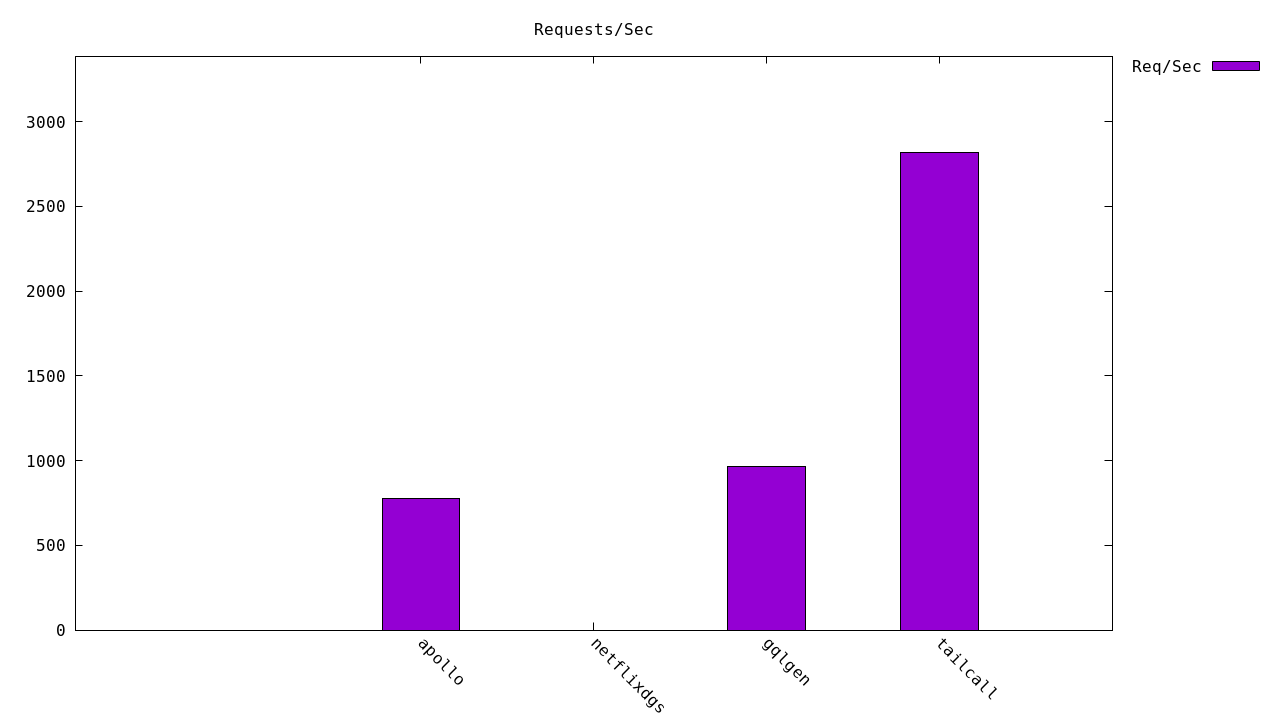
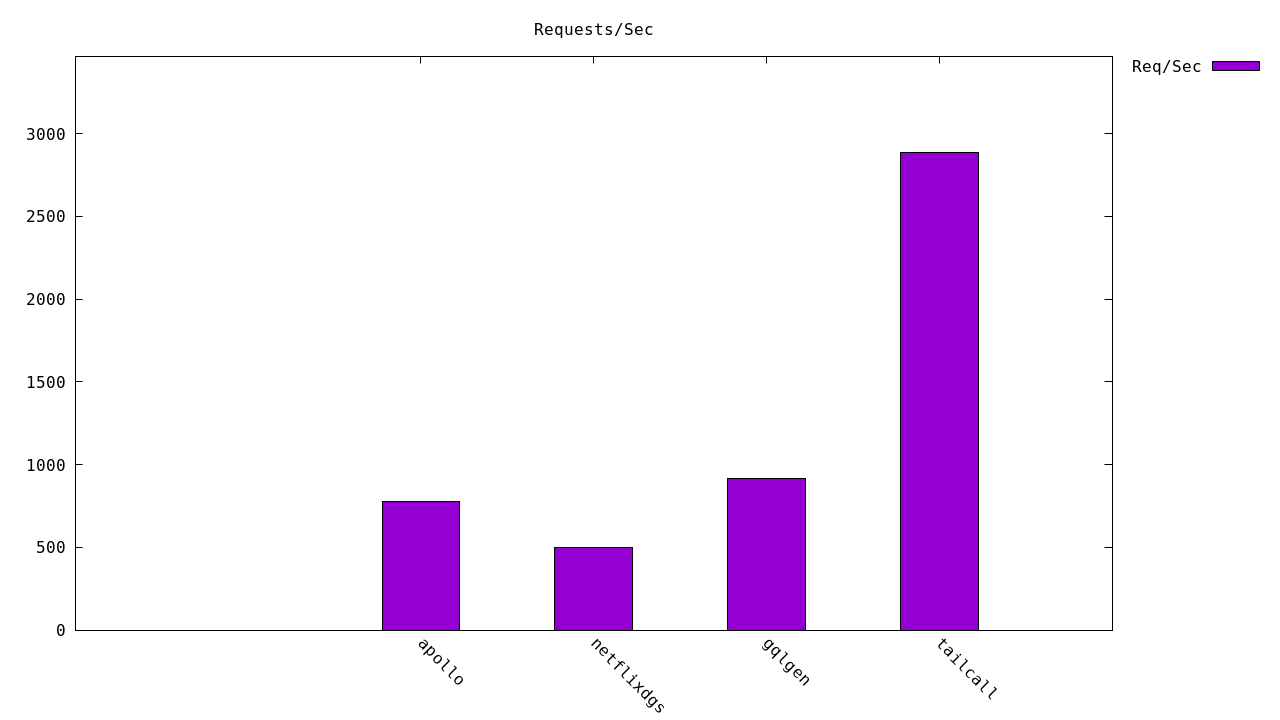
Added performance histograms and updated README

diff --git a/README.md b/README.md
@@ -25,13 +25,15 @@ Once the post-creation setup in Codespaces is complete, initiate the benchmark t
 ```
 
 ## Benchmark Results
-
-Below are the visualizations for latency and throughput comparisons across the frameworks:
-
-| ![Latency Histogram](assets/latency_histogram.png) | ![Requests/sec Histogram](assets/req_sec_histogram.png) |
-|:--------------------------------------------:|:------------------------------------------------:|
-|                 Latency Histogram             |              Requests/sec Histogram              |
 <!-- PERFORMANCE_RESULTS_START -->
+| Server | Requests/sec | Latency (ms) |
+|--------|--------------|--------------|
+| apollo | 775.3 | 132.24 |
+| netflixdgs | 497.43 | 213.723 |
+| gqlgen | 914.94 | 118.85 |
+| tailcall | 2888.45 | 34.7867 |
+<!-- PERFORMANCE_RESULTS_END -->
+
 | Server | Requests/sec | Latency (ms) |
 |--------|--------------|--------------|
 | apollo | 774.227 | 132.44 |
@@ -39,4 +41,11 @@ Below are the visualizations for latency and throughput comparisons across the f
 | gqlgen | 964.177 | 112.787 |
 | tailcall | 2820.57 | 35.61 |
 <!-- PERFORMANCE_RESULTS_END -->
+
+Below are the visualizations for latency and throughput comparisons across the frameworks:
+
+| ![Latency Histogram](assets/latency_histogram.png) | ![Requests/sec Histogram](assets/req_sec_histogram.png) |
+|:--------------------------------------------:|:------------------------------------------------:|
+|                 Latency Histogram             |              Requests/sec Histogram              |
+
 
